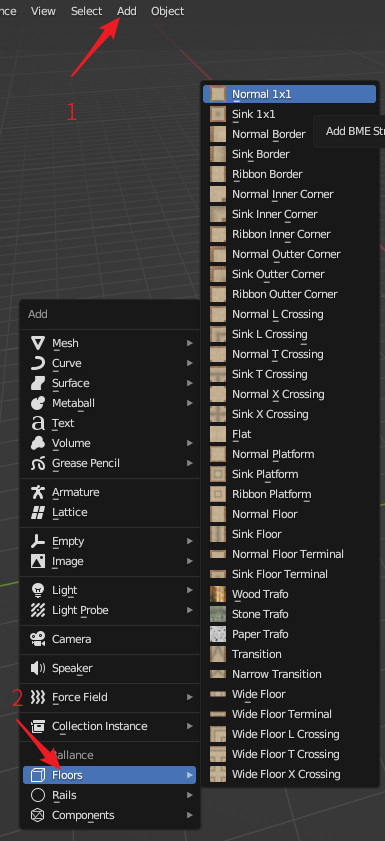
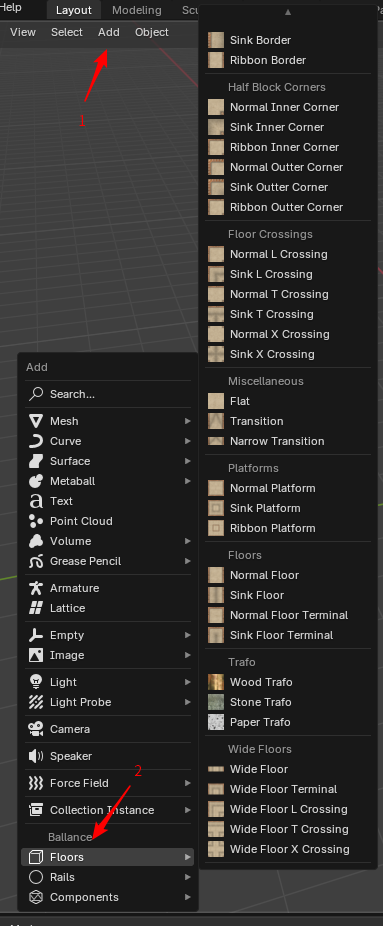
doc: fix bme adder doc

diff --git a/docs/docs/zh-cn/bme-adder.md b/docs/docs/zh-cn/bme-adder.md
@@ -1,15 +1,25 @@
 # 添加路面
 
+!!! info "BME是可扩展的"
+    BME的路面添加器是可扩展的，菜单中的每一个项实际上都由一组JSON数据描述。您可以阅读[技术信息](./tech-infos.md)章节来了解我们是如何编写这些JSON的，甚至您还可以根据你的需求自行扩展BME可创建的路面种类。
+
 ## 开始生成
+
+### 从添加菜单生成
 
 在3D视图中，点击`Add - Floors`可展开添加路面菜单。菜单如下图所示。
 
 ![](../imgs/bme-adder.png)
 
-点击菜单后可以在弹出的子菜单中查看所有受支持的路面类型。其名称和图标提示了它所要创建路面的样式与形状。
+点击菜单后可以在弹出的子菜单中按分类查看所有受支持的路面类型。其名称和图标提示了它所要创建路面的样式与形状。
 
-!!! info "BME是可扩展的"
-    BME的路面添加器是可扩展的，菜单中的每一个项实际上都由一组JSON数据描述。您可以阅读[技术信息](./tech-infos.md)章节来了解我们是如何编写这些JSON的，甚至您还可以根据你的需求自行扩展BME可创建的路面种类。
+### 从侧边栏生成
+
+此外，还可以通过点按N键，打开3D视图的侧边栏，在其中找到Ballance选项卡，展开Floor面板也可找到，如下图所示：
+
+![](../imgs/bme-adder-sidebar.png)
+
+该面板相较于添加菜单，其好处在于可常驻在界面之中，避免了在持续添加路面的操作中，频繁打开菜单寻找路面的麻烦。此外，该选项卡中还有用于添加钢轨和机关的面板可供展开，在后续章节中不再赘述。
 
 ## 配置路面
 
